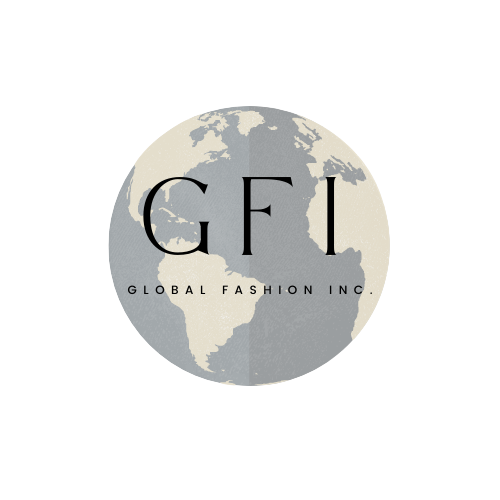
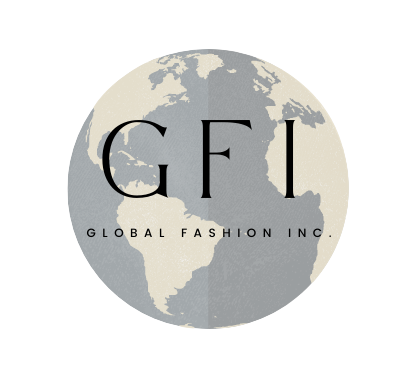
subscribe button takes you to its page

Changed region(s): [[0.146, 0.117, 0.8467, 0.8777]]

diff --git a/sub.css b/sub.css
@@ -1,0 +1,74 @@
+@import url("https://fonts.googleapis.com/css2?family=Mulish:wght@300;400;500;600;700&display=swap");
+
+body {
+  background: #dbdddd;
+  display: flex;
+  justify-content: center;
+  align-items: center;
+  height: 100vh;
+  font-family: "Mulish", sans-serif;
+}
+
+.subscribe {
+  display: flex;
+  flex-direction: column;
+  align-items: center;
+  justify-content: center;
+  background: white;
+  width: 945px;
+  height: 600px;
+  border-radius: 10px;
+  box-shadow: 0 4px 20px rgba(0, 0, 0, 0.2);
+}
+
+.subscribe__title {
+  font-weight: bold;
+  font-size: 26px;
+  margin-bottom: 5px;
+}
+
+.subscribe__copy {
+  max-width: 450px;
+  text-align: center;
+  margin-bottom: 20px;
+  line-height: 1.5;
+}
+
+.form {
+  margin-bottom: 25px;
+  display: flex;
+}
+
+.form__email {
+  padding: 20px 25px;
+  border-radius: 5px;
+  border: 1px solid #cad3db;
+  width: 431px;
+  font-size: 18px;
+  color: #0f121f;
+}
+
+.form__email:focus {
+  outline: 1px solid #3d9fff;
+}
+
+.form__button {
+  background: #3d9fff;
+  padding: 10px;
+  border: none;
+  width: 244px;
+  height: 65px;
+  border-radius: 5px;
+  font-size: 18px;
+  color: white;
+  box-shadow: 0 4px 20px rgba(61, 159, 255, 0.7);
+  margin-left: 10px;
+}
+
+.form__button:hover {
+  box-shadow: 0 10px 20px rgba(61, 159, 255, 0.7);
+}
+
+.notice {
+  width: 345px;
+}

diff --git a/subscribe.html b/subscribe.html
@@ -1,0 +1,44 @@
+<!DOCTYPE html>
+<html lang="en">
+  <head>
+    <meta charset="utf-8" />
+    <meta name="viewport" content="width=device-width, initial-scale=1" />
+    <meta name="description" content="" />
+
+    <link href="sub.css" rel="stylesheet" />
+    <title>Subscribe to our Newsletter</title>
+  </head>
+  <body>
+    <div class="subscribe">
+      <a id="home-button" href="index-new.html">
+        <img
+          src="/images/New GFI.png"
+          alt="logo"
+          height="200px"
+          width="220px"
+          style="position: center"
+        />
+      </a>
+
+      <h2 class="subscribe__title">Let's keep in touch!</h2>
+      <p class="subscribe__copy">
+        Subscribe to keep up with fresh news on worldwide fashion and exciting
+        updates. We promise not to spam you!
+      </p>
+      <div class="form">
+        <input
+          type="email"
+          class="form__email"
+          placeholder="Enter your email address"
+        />
+        <button class="form__button">SUBSCRIBE</button>
+      </div>
+      <div class="notice">
+        <input type="checkbox" />
+        <span class="notice__copy" style=""
+          >I agree to my email address being stored.
+        </span>
+      </div>
+    </div>
+  </body>
+</html>

diff --git a/index-new.html b/index-new.html
@@ -19,15 +19,17 @@
     <link rel="stylesheet" href="main.css" />
   </head>
   <body>
+    <div class="bg-modal">
+
+    </div>
     <div class="container">
       <header class="blog-header py-3">
         <div class="row flex-nowrap justify-content-between align-items-center">
           <div class="col-4 pt-1">
-            <a class="text-muted" href="#">Subscribe</a>
+            <a class="btn btn-outline-secondary" href="/subscribe.html">Subscribe</a>
           </div>
           <div class="col-4 text-center">
-            <!-- <a class="blog-header-logo text-dark" href="#">Large</a> -->
-            <img src="/images/New GFI.png" height="auto" width="80%" />
+            <img src="/images/New GFI.png" height="auto" width="65%" />
           </div>
           <div class="col-4 d-flex justify-content-end align-items-center">
             <a class="text-muted" href="#">
@@ -47,7 +49,7 @@
                 <line x1="21" y1="21" x2="15.8" y2="15.8"></line>
               </svg>
             </a>
-            <a class="btn btn-sm btn-outline-secondary" href="#">Sign up</a>
+            <a class="btn btn-outline-secondary" href="#">Sign up</a>
           </div>
         </div>
       </header>

diff --git a/main.css b/main.css
@@ -126,7 +126,7 @@ h6 {
   margin-top: 10px;
   box-shadow: rgba(0, 0, 0, 0.24) 0px 3px 8px;
 }
- 
+
 .display-4 {
   font-size: 2.5rem;
 }
